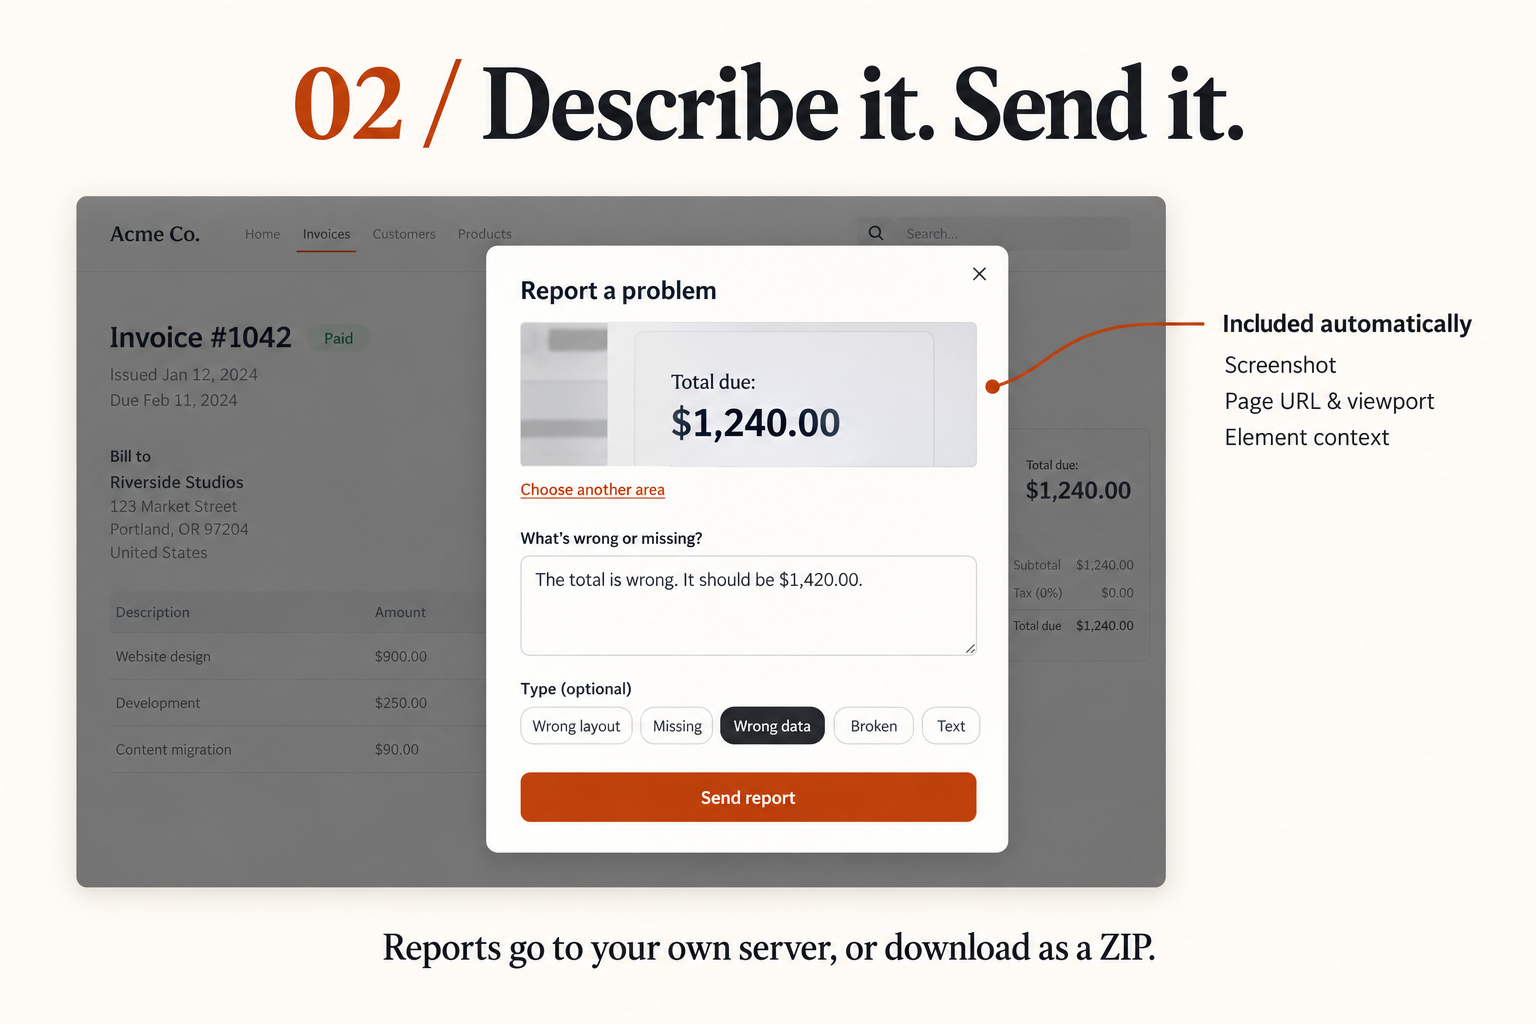
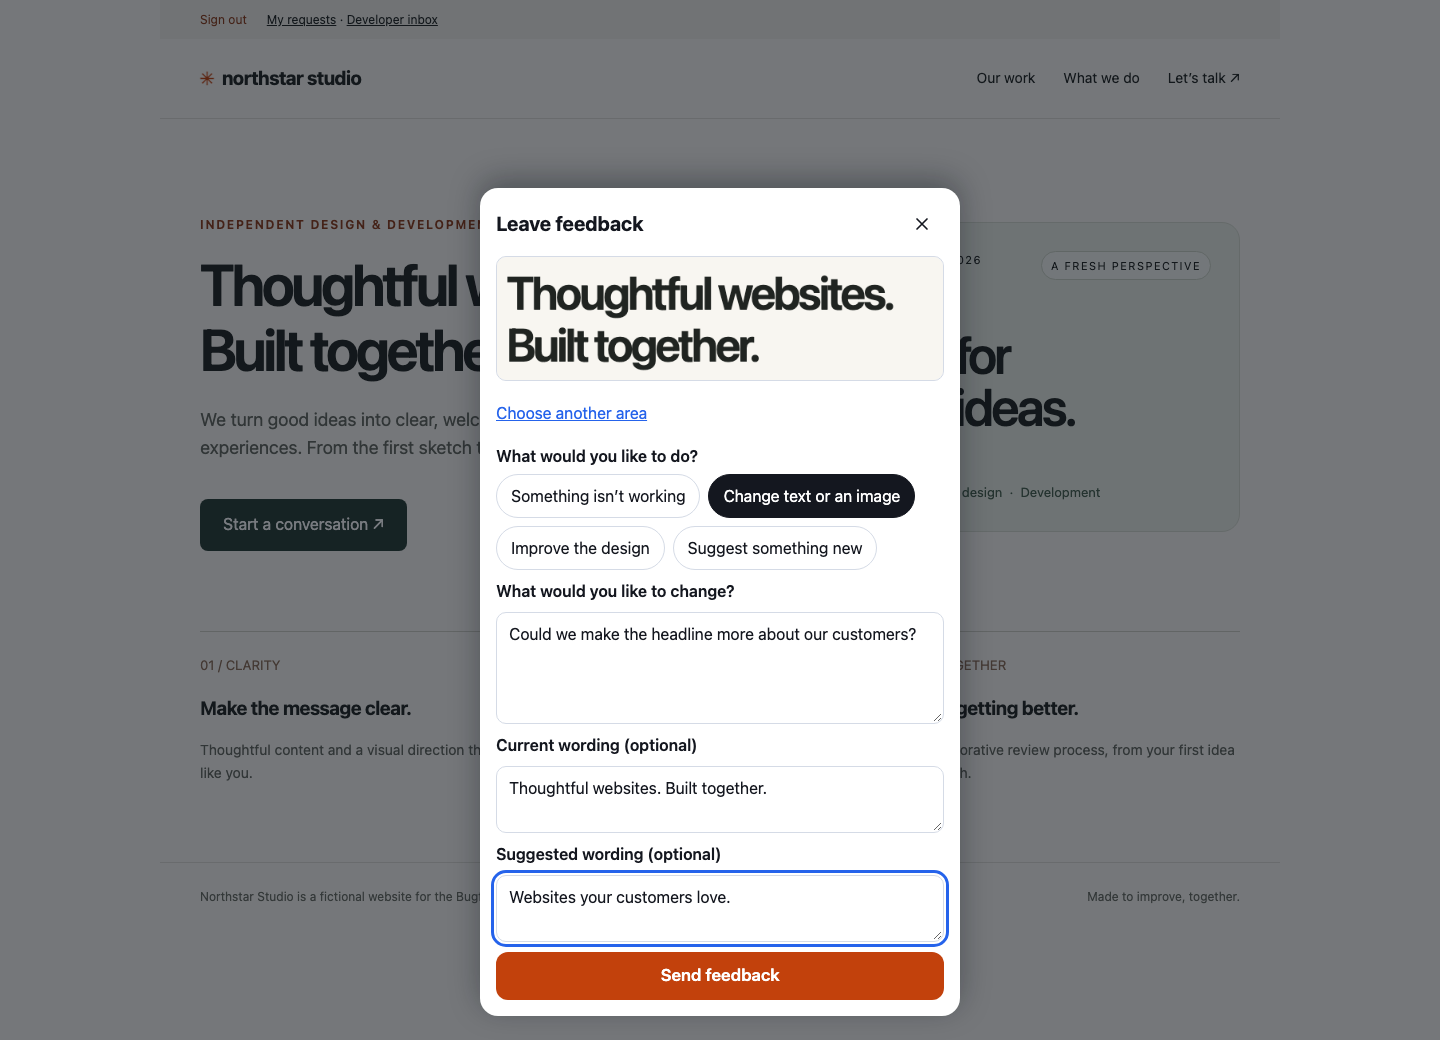
docs: showcase the current workflow with real multilingual screenshots

diff --git a/README.md b/README.md
@@ -2,9 +2,9 @@
 
 [![CI](https://github.com/vmatheus3/bug-frame/actions/workflows/ci.yml/badge.svg)](https://github.com/vmatheus3/bug-frame/actions/workflows/ci.yml)
 [![License: MIT](https://img.shields.io/badge/License-MIT-c2410c.svg)](LICENSE)
-[![Download](https://img.shields.io/badge/download-v0.4.0-c2410c.svg)](https://github.com/vmatheus3/bug-frame/releases/tag/v0.4.0)
+[![Download](https://img.shields.io/badge/download-v0.4.1-c2410c.svg)](https://github.com/vmatheus3/bug-frame/releases/tag/v0.4.1)
 
-![Bugframe: frame the bug and send the context](docs/images/bugframe-overview.png)
+![Bugframe developer inbox: screenshot evidence, request progress, and a language selector](docs/images/bugframe-overview.png)
 
 **Point to anything you want to improve.** Bugframe is a small drop-in website feedback tool for bugs, content changes, design improvements, and new ideas. Customers frame an area, describe the change, and review the result. Developers get screenshots and technical context in a private inbox. Every request includes a screenshot of the marked area, page link, screen size, and element context. Optional console capture adds recent errors for debugging.
 
@@ -19,7 +19,7 @@ you cover any hosting you choose and any optional AI service you use to fix repo
   drag a box, type  ─────▶   region.png + full.png  ───▶  bug-reports/<id>/   ───▶   bugframe export
                               + url, viewport,             report.json                 → WORKLIST.md (by page)
                                 element path, console      region.png                  → developer delivers for review
-  "My requests" ◀──────────── status + review note  ◀─────────  full.png                   bugframe close <id> --note …
+  "My requests" ◀──────────── status + review note  ◀─────────  full.png                   bugframe ready <id> --note …
 ```
 
 ## How it works
@@ -29,12 +29,32 @@ you cover any hosting you choose and any optional AI service you use to fix repo
 3. Developers review the context, make the agreed change, and mark it ready for customer review.
 4. The original customer chooses **Looks good** or requests an adjustment. Only that customer can approve their request.
 
-| Frame the problem | Describe it and send |
+| 1. Frame anything to improve | 2. Describe the change |
 | --- | --- |
-| ![Select the wrong invoice total](docs/images/frame-the-problem.png) | ![Describe the problem and send the report](docs/images/describe-and-send.png) |
+| ![Select a website headline using the actual feedback widget](docs/images/frame-the-problem.png) | ![Send a content suggestion with current and proposed wording](docs/images/describe-and-send.png) |
 
-These images are illustrative mockups of the workflow on a fictional website, generated with the built-in imagegen tool.
-The runnable demo below uses the actual widget. Image files and the final generation prompts are in [docs/MOCKUPS.md](docs/MOCKUPS.md).
+| 3. Invite an approved customer | 4. Review the delivered change |
+| --- | --- |
+| ![Secure customer invitation using the website’s existing verified login](docs/images/customer-invitation.png) | ![Customer review: check the updated page, approve, or request an adjustment](docs/images/customer-review.png) |
+
+These are **screenshots of the running interface**, using a fictional Northstar Studio website and disposable local accounts. They replace the older illustrative mockups. The demonstration actually updates the example headline before requesting approval. See [the screenshot gallery and reproduction instructions](docs/MOCKUPS.md).
+
+## English, español, português
+
+The feedback widget, developer inbox, invitation page, and customer review page support English, Spanish, and Portuguese. Buttons, field labels, status names, dates, validation, and success/error messages follow the chosen language. Each portal page has a language selector that keeps entered notes and the pending invitation intact.
+
+```js
+init({ endpoint: '/api/bugframe', locale: 'auto' }); // or 'en', 'es', 'pt'
+createInbox({ bugframe: bf, locale: 'auto', siteName: 'My website' });
+```
+
+`auto` uses the browser language, with English as the fallback. The portal negotiates `Accept-Language` on the server; `?lang=en`, `?lang=es`, or `?lang=pt` selects a shareable page language. The selector remembers the choice in `bugframe:locale` for this browser and same-origin widgets using `auto`. An explicit widget `locale` takes precedence. Existing `strings` and inbox `labels` overrides remain available.
+
+| English | Español | Português |
+| --- | --- | --- |
+| ![English customer review interface](docs/images/customer-review.png) | ![Interfaz de revisión del cliente en español](docs/images/customer-review-es.png) | ![Interface de revisão do cliente em português](docs/images/customer-review-pt.png) |
+
+Customer-written feedback, developer notes, project names, and the reviewed website’s own content stay as entered; switching languages does not automatically translate or overwrite them. Your website supplies its own sign-in experience.
 
 ## Why
 
@@ -70,11 +90,11 @@ node src/cli/bin.mjs --dir ./examples/plain-html/reports close <id> --note "Fixe
 
 ### Add it to your own project
 
-Install the built package from the [GitHub release](https://github.com/vmatheus3/bug-frame/releases/tag/v0.4.0).
+Install the built package from the [GitHub release](https://github.com/vmatheus3/bug-frame/releases/tag/v0.4.1).
 This installation does not depend on a package named `bugframe` being published to the npm registry:
 
 ```bash
-npm install https://github.com/vmatheus3/bug-frame/releases/download/v0.4.0/bugframe-0.4.0.tgz
+npm install https://github.com/vmatheus3/bug-frame/releases/download/v0.4.1/bugframe-0.4.1.tgz
 # First connect your server-side login verifier as described under "Access control" below.
 npx bugframe serve --dir ./bug-reports --port 4455 --auth-module ./bugframe-auth.mjs
 ```
@@ -332,9 +352,9 @@ createServer((req, res) => inbox.matches(req.url) ? review(req, res) : api(req, 
 ```
 
 The inbox lists reports, shows selected/full screenshots and captured page context/browser errors, and lets admins update
-status with a fix note. Report text is rendered as text, not HTML. The administrator page at `/bugs/` requires admin access. Approved customers use `/bugs/review` to see their own requests, screenshots, and progress without technical logs or administrative controls. Shared UI assets require approved access, and the API rechecks authorization for every request. Pages use no-store caching, a restricted CSP, and noindex.
+status with a fix note. Report text is rendered as text, not HTML. The administrator page at `/bugs/` requires admin access. Approved customers use `/bugs/review` to see their own requests, screenshots, and progress without technical logs or administrative controls. Application JavaScript requires approved access; static styles and translation helpers are public for the invitation shell, and the API rechecks authorization for every request. Pages use no-store caching, a restricted CSP, and noindex.
 
-Configure `basePath`, the same-origin `apiBase`, `siteName`, an existing `loginUrl`, or `labels` (`refresh`, `reports`, `empty`,
+Configure `basePath`, the same-origin `apiBase`, `siteName`, an existing `loginUrl`, `locale` (`auto`, `en`, `es`, `pt`), or `labels` (`refresh`, `reports`, `empty`,
 `choose`, `selectedArea`, `fullScreenshot`, `status`, `open`, `fixed`, `wontfix`, `note`, `save`, `details`). The inbox uses
 same-origin session cookies; never embed an admin bearer token in its JavaScript. `siteUrl` links back to the reviewed website (default `/?bugs=1`). It does not supply production sign-in, email delivery, or password recovery.
 

diff --git a/docs/MOCKUPS.md b/docs/MOCKUPS.md
@@ -1,27 +1,37 @@
-# Bugframe usage mockups
+# Bugframe interface screenshots
 
-These illustrative mockups were generated with the built-in image_gen tool, not captured from a running application. The example website is fictional; Bugframe's actual widget is demonstrated in `examples/plain-html`. Code, documentation, and these images are available under the repository's MIT license.
+These images show the actual Bugframe 0.4.1 interface running in Chromium. They replace the earlier AI-generated mockups; no image generation or image editing is used for the current gallery. The Northstar Studio website, customer account, request, and developer notes are fictional demo content. No live accounts, credentials, invitation secrets, or customer reports appear in the images. Code, documentation, and images are available under the repository’s MIT license.
 
-## bugframe-overview.png
+| File | What it shows |
+| --- | --- |
+| `images/bugframe-overview.png` | Developer inbox with the customer’s content request, original screenshots, progress controls, and technical evidence. |
+| `images/frame-the-problem.png` | A customer frames the homepage headline on the sample website. |
+| `images/describe-and-send.png` | The four feedback kinds and a content request with current and proposed wording. |
+| `images/customer-invitation.png` | Invitation acceptance through an existing verified account. The secret is removed from the browser URL and never rendered. |
+| `images/customer-review.png` | English customer view: check the delivered page, approve, or request an adjustment. |
+| `images/customer-review-es.png` | The same customer interface in Spanish. |
+| `images/customer-review-pt.png` | The same customer interface in Portuguese. |
+| `images/customer-approved.png` | Customer-approved result and progress history. |
 
-![Bugframe overview](images/bugframe-overview.png)
+## Reproduce
 
-Final generation prompt:
+From the repository with Node.js 20+:
 
-> Use case: ui-mockup. Asset type: open-source GitHub README hero image for Bugframe, a real drop-in website bug reporter. Create a polished 1536x1024 landscape editorial product illustration, warm ivory background, charcoal type and burnt orange #c2410c accents, restrained rounded browser frame. Large title "Bugframe". Subtitle "Frame the bug. Send the context." Small badge "Free & open source". Main browser shows a simple invoice page titled "Invoice #4021", total "$1,240.00", and a crisp orange dashed selection rectangle around the wrong total, with a pointer dragging its corner. At right a compact white report dialog titled "Report a problem", cropped screenshot of the total, field label "What's wrong or missing?", description "The total should be $1,420.00", a "Wrong data" chip and orange "Send report" button. Below, small labels "Screenshot", "Page context", "Ready to fix". Flat high-fidelity UI with subtle depth, legible typography, generous whitespace. This is an illustrative workflow mockup, not a futuristic dashboard. Do not invent AI chat, analytics, user accounts, subscriptions, video, pen tools or other functionality. No watermarks.
+```bash
+npm ci --ignore-scripts
+npx playwright install chromium
+npm run docs:images
+```
 
-## frame-the-problem.png
+The capture script starts an isolated loopback demo with disposable accounts and report storage, signs in through real session flows, accepts an invitation, submits feedback through the real widget, and opens the developer inbox. It updates the fictional headline in a disposable source copy, requests customer review, changes the interface language, and records the approval. It closes Chromium and removes its temporary data afterward. The repository’s demo source is not modified during capture.
 
-![Frame the problem](images/frame-the-problem.png)
+The language screenshots intentionally keep the original English customer text and developer note: UI language changes do not translate or alter user-authored content. The example page is also available at `/review-demo?bugs=1` when running `npm run example`.
 
-Final generation prompt:
-
-> Use case: ui-mockup. Asset type: educational usage mockup for Bugframe open-source README. Create polished landscape 1536x1024 presentation graphic, ivory background, charcoal type, burnt orange #c2410c highlights. Heading "01 / Frame the problem". Subheading "Open your page with ?bugs=1". One large browser frame displaying "Invoice #4021", a white invoice summary card with total "$1,240.00" and helper "This number is wrong on purpose." Show the viewport dimmed around a clear selected region with a white and dashed orange rectangular border around the total. Floating dark top toolbar reads "Drag a box around the problem" with buttons "Whole screen" and "Cancel". Small burnt-orange circular bug button at bottom-right of page. Bottom caption "Drag around the exact area that needs attention." Professional documentation illustration, plausible web UI and sharp readable text. Show selection only: no arrow tools, pen tools, dashboard or other unimplemented functionality. No watermark.
-
-## describe-and-send.png
-
-![Describe and send](images/describe-and-send.png)
-
-Final generation prompt:
-
-> Use case: ui-mockup. Asset type: educational usage mockup for Bugframe open-source README. Create polished landscape 1536x1024 presentation graphic, warm ivory background, charcoal type, burnt orange #c2410c. Heading "02 / Describe it. Send it." Center a realistic compact white report dialog with rounded corners and subtle shadow against a dimmed invoice page. Dialog title "Report a problem". Preview image shows "Total due: $1,240.00". Link "Choose another area". Label "What's wrong or missing?". Textarea "The total is wrong. It should be $1,420.00." Label "Type (optional)". Chips "Wrong layout", "Missing", "Wrong data", "Broken", "Text", with "Wrong data" selected in charcoal. Wide burnt-orange button "Send report". Beside the dialog a modest annotation "Included automatically" with short list "Screenshot", "Page URL & viewport", "Element context". Bottom caption "Reports go to your own server, or download as a ZIP." True-to-product mockup, legible text, generous whitespace, no fake account system, analytics dashboard, automation promise or watermark.
+![Developer inbox](images/bugframe-overview.png)
+![Frame an area](images/frame-the-problem.png)
+![Describe a change](images/describe-and-send.png)
+![Accept an invitation](images/customer-invitation.png)
+![Review the delivered change](images/customer-review.png)
+![Spanish customer view](images/customer-review-es.png)
+![Portuguese customer view](images/customer-review-pt.png)
+![Approved request](images/customer-approved.png)

diff --git a/SECURITY.md b/SECURITY.md
@@ -35,7 +35,7 @@ upgrade both server and widget and configure the session authorizer described in
   they carry untrusted, unverified reporter content. Use authenticated server mode for account-controlled submissions.
 - **Server-only reporting.** Set `allowDownloadFallback: false` with a configured endpoint to prevent local ZIP fallback after
   server failures. Missing server endpoints fail at initialization. Failed reports stay only in the open widget's memory for retry.
-- **Optional inbox.** `createInbox` requires a verified administrator for its developer HTML; the customer page and shared assets require approved account access; the UI rechecks admin access
+- **Optional inbox.** `createInbox` requires a verified administrator for its developer HTML; the customer page and application JavaScript require approved account access. Static styles and translation helpers are public so signed-out invitees can use the invitation page; they contain no account or report data; the UI rechecks admin access
   before API operations and clears rendered private fields/images when authorization is denied. Report text and context are
   inserted as text, untrusted page links allow only HTTP(S) without embedded credentials, and responses are no-store/noindex.
 - **Customer invitations.** Opt-in invitations require an existing login with verified email ownership. Random 256-bit tokens are stored hashed and consumed once; acceptance binds the host account id. Links carry the token in a fragment, strip it on open, and use no-referrer/no-store responses. Pending and accepted access both expire, and revocation is checked on every API request. Never return a browser-entered email as verified. A host `client` permission is independent of invitations; use `user` for invitation-only accounts. Invitation/review mutations require one API process/writer per project, including custom stores. Multi-replica mutation coordination is not supplied. Direct filesystem CLI mutations require exclusive access; use the remote CLI while the API is running.

diff --git a/CHANGELOG.md b/CHANGELOG.md
@@ -3,6 +3,18 @@
 All notable changes are listed here. The format follows [Keep a Changelog](https://keepachangelog.com/) and the project
 uses [Semantic Versioning](https://semver.org/).
 
+## [0.4.1] - 2026-10-23
+
+### Fixed
+- Complete English, Spanish, and Portuguese support across the developer inbox, customer requests, invitation acceptance, access-denied pages, statuses, dates, validation, and success/error responses. The widget’s authorization copy now consistently refers to feedback.
+- Add a portal language selector, `createInbox({ locale })`, browser language negotiation, and shareable `?lang=en|es|pt` preferences. Switching languages keeps unsaved notes, selected statuses, and pending invitation secrets in memory. The same-origin widget in `auto` mode follows the saved preference.
+- Serve data-free styles and translation helpers to signed-out invitees so the public invitation page renders correctly. Request pages, application JavaScript, reports, and screenshots retain their authorization checks.
+
+### Documentation
+- Replace the three outdated illustrative GitHub images with real screenshots and add invitation, review, approval, Spanish, and Portuguese screenshots.
+- Add a reproducible screenshot command and a fictional client website demo. Captures use disposable sessions/storage and actually change the example headline before the customer approves it.
+- Let the localhost demo test runner explicitly raise its sign-in limit for the expanded browser matrix; the default remains 20 attempts per minute.
+
 ## [0.4.0] - 2026-10-23
 
 ### Added
